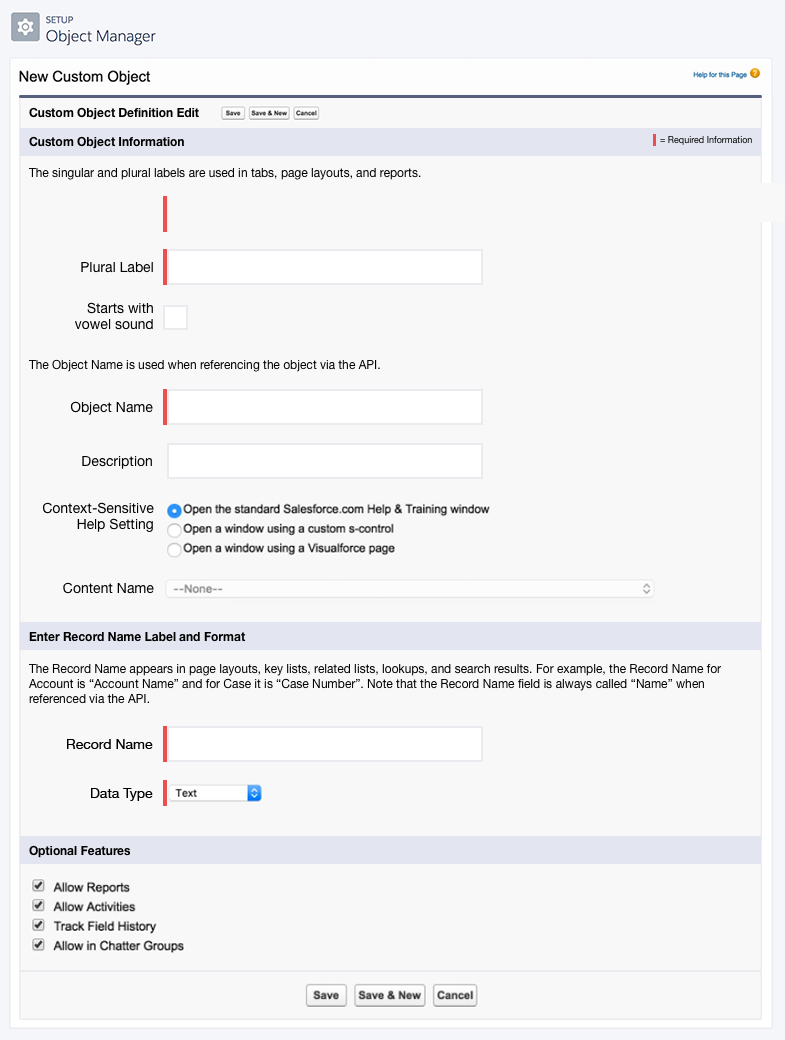
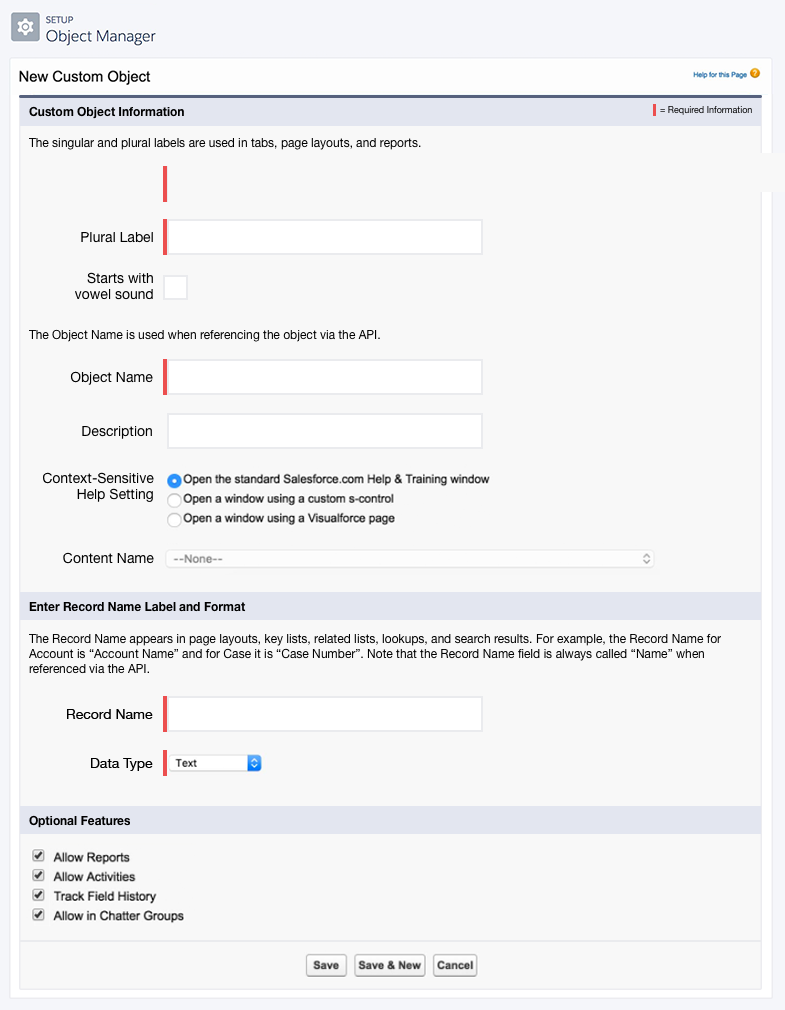
Chapter 1 - Task 1 (Add an Object) - Step 3 - There is a portion of the screen displayed that the content slide shows as grayed out with 'DO NOT SHOW THIS' comment..

diff --git a/src/app/4-customize-mobile/controllers/1-create-a-custom-action.drawer.controller.js b/src/app/4-customize-mobile/controllers/1-create-a-custom-action.drawer.controller.js
@@ -19,7 +19,7 @@ export default function CreateACustomActionDrawerController($scope, WizardHandle
 
     Steps.pop({
       number: 'two',
-      title: ' Choose &lsquo;Customer Insights&rsquo; from the &lsquo;Target Object&rsquo; dropdown, then click &lsquo;New&rsquo;'
+      title: ' Choose &lsquo;Customer Insights&rsquo; from the &lsquo;Target Object&rsquo; dropdown, then click &lsquo;Save&rsquo;'
     });
 
     Steps.pop({

diff --git a/src/app/1-build-a-data-model/styles/_1-add-an-object.scss b/src/app/1-build-a-data-model/styles/_1-add-an-object.scss
@@ -52,7 +52,7 @@
     .form {
       &.form-horizontal {
         position: absolute;
-        top: 196px;
+        top: 166px;
         left: 1px;
         .control-label {
           width: 155px;
@@ -74,7 +74,7 @@
   }
 
   .step-4 {
-    height: 1040px !important;
+    height: 1010px !important;
     transform: translateY(-549px);
     .click-box {
       bottom: 34px;
